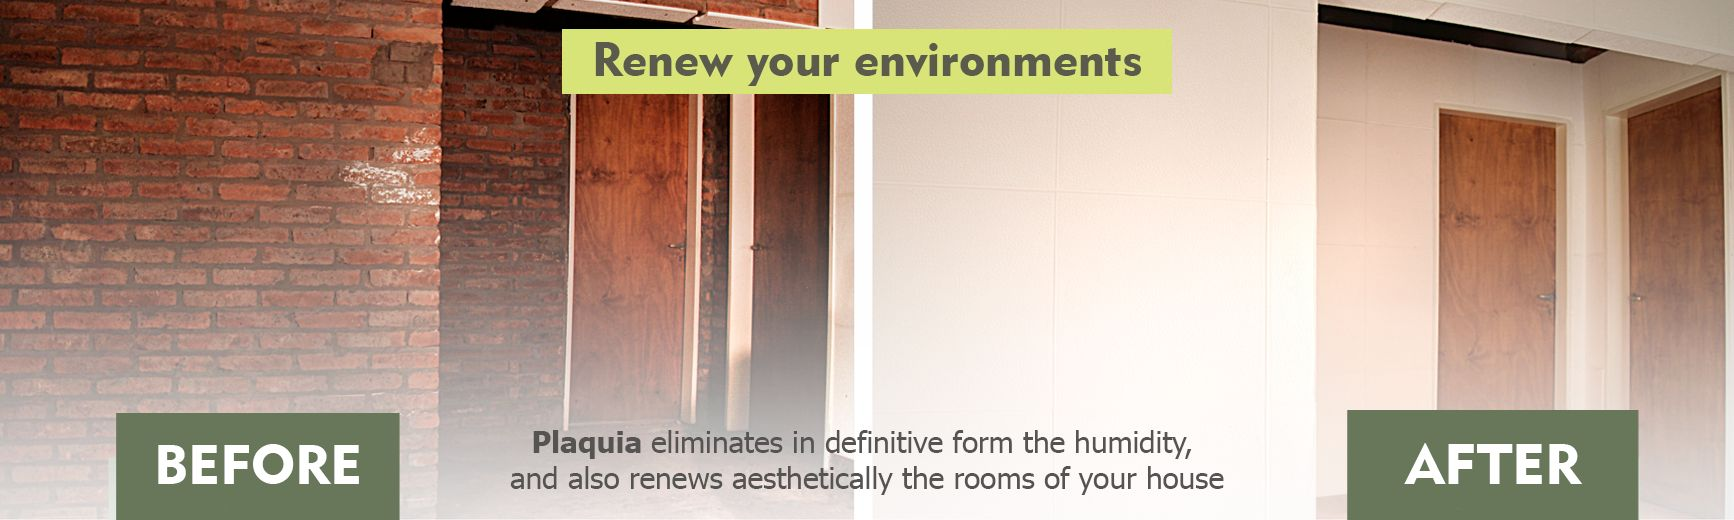
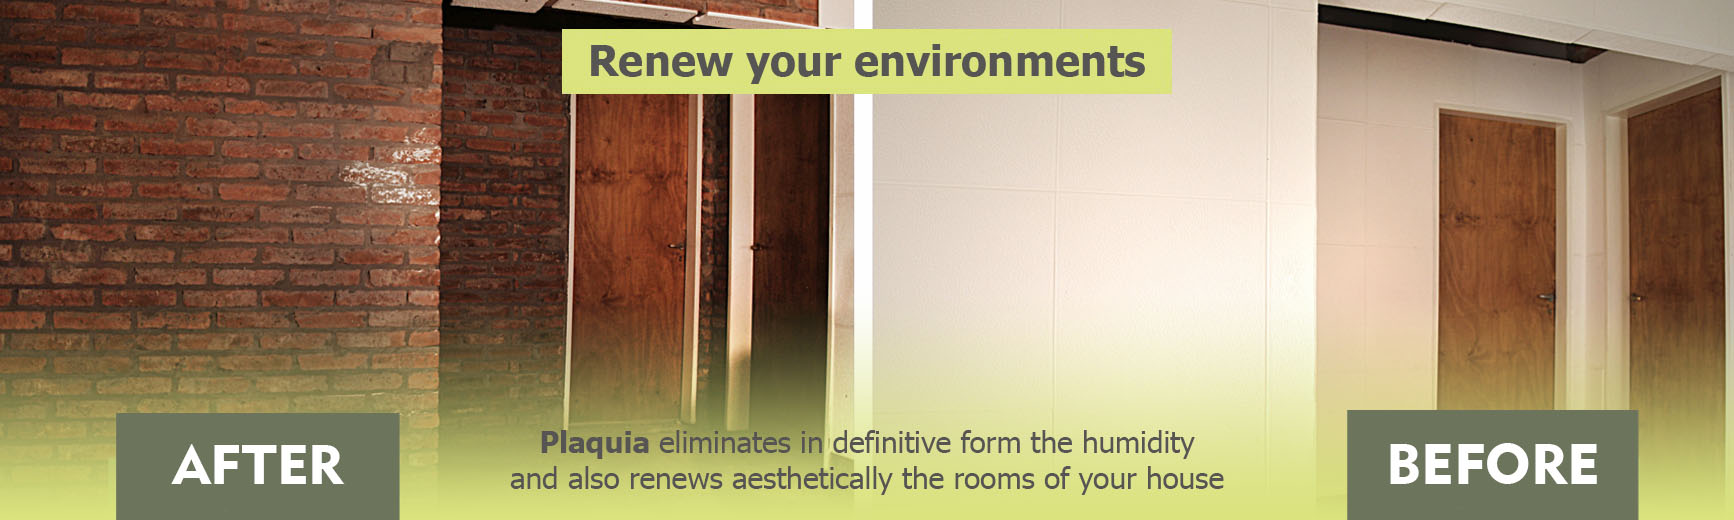
Replacement of images in results

diff --git a/frontend/src/components/Distribuidores/DistribuidoresSinBack.js b/frontend/src/components/Distribuidores/DistribuidoresSinBack.js
@@ -54,6 +54,11 @@ class Distribuidores extends React.Component {
             </thead>
             <tbody>
               <tr>
+                <td>Algarrobo</td>
+                <td>Av. 25 de Mayo 214</td>
+                <td>02927-491289</td>
+              </tr>
+              <tr>
                 <td>Benavidez</td>
                 <td>Av. Benavidez 3614</td>
                 <td>011 5052-6365</td>
@@ -69,6 +74,11 @@ class Distribuidores extends React.Component {
                 <td>011 4488-7733</td>
               </tr>
               <tr>
+                <td>Hilario Ascasubi</td>
+                <td>Ing. Urgoiti 475</td>
+                <td>02928 491133</td>
+              </tr>
+              <tr>
                 <td>Ituzaingo</td>
                 <td>Av. Presidente Perón 7042</td>
                 <td>011 6462-4582</td>
@@ -77,6 +87,11 @@ class Distribuidores extends React.Component {
                 <td>Médanos</td>
                 <td>Anchorena 123</td>
                 <td>291 5087-317</td>
+              </tr>
+              <tr>
+                <td>Patagones</td>
+                <td>Ntra. Sra. Del Carmen 218</td>
+                <td>02928-492425</td>
               </tr>
             </tbody>
           </Table>
@@ -93,14 +108,14 @@ class Distribuidores extends React.Component {
             </thead>
             <tbody>
               <tr>
-                <td>R. Saenz Peña</td>
-                <td>San Martin 38</td>
-                <td>0364 442-7345</td>
-              </tr>
-              <tr>
                 <td>Resistencia</td>
                 <td>Gob. Mansilla 77</td>
                 <td>0362 446-2582</td>
+              </tr>
+              <tr>
+                <td>Roque Saenz Peña</td>
+                <td>San Martin 38</td>
+                <td>0364 442-7345</td>
               </tr>
             </tbody>
           </Table>
@@ -159,6 +174,11 @@ class Distribuidores extends React.Component {
                 <td>Viscardi 345 - Parque Industrial</td>
                 <td>02302 430191</td>
               </tr>
+              <tr>
+                <td>La Adela</td>
+                <td>Ruta 22 Km 856</td>
+                <td> </td>
+              </tr>
             </tbody>
           </Table>
           <h4>
@@ -177,6 +197,25 @@ class Distribuidores extends React.Component {
                 <td>San Vicente</td>
                 <td>Ruta Nacional 14 Km 974</td>
                 <td>03755 460550</td>
+              </tr>
+            </tbody>
+          </Table>
+          <h4>
+            <li>Río Negro</li>
+          </h4>
+          <Table>
+            <thead>
+              <tr>
+                <th style={{ width: "30%" }}>{Localidad}</th>
+                <th style={{ width: "50%" }}>{Direccion}</th>
+                <th style={{ width: "20%" }}>{Telefono}</th>
+              </tr>
+            </thead>
+            <tbody>
+              <tr>
+                <td>Río Colorado</td>
+                <td>Urquiza 571</td>
+                <td>02931 432822</td>
               </tr>
             </tbody>
           </Table>

diff --git a/frontend/src/components/modelos/modelos.js b/frontend/src/components/modelos/modelos.js
@@ -6,6 +6,10 @@ import ModalImage from "react-modal-image";
 import Card from "react-bootstrap/Card";
 import CardDeck from "react-bootstrap/CardDeck";
 
+import smallJade from "../../img/Modelos/smallJade.jpg";
+import smallCuarzo from "../../img/Modelos/smallCuarzo.jpg";
+import smallOnice from "../../img/Modelos/smallOnice.jpg";
+
 import imgJade from "../../img/Modelos/PlacaJade.jpg";
 import imgCuarzo from "../../img/Modelos/PlacaCuarzo.jpg";
 import imgOnice from "../../img/Modelos/PlacaOnice.jpg";
@@ -42,15 +46,15 @@ class ModelosPlacas extends Component {
   render() {
     this.Iniciar();
     return (
-      <div>
+      <div id="DivModelos">
         <CardDeck>
-          <Card>
+          <Card id="TarjetaModelos">
             <Card.Header>
               <h3 id="nombrePlaca">Cuarzo</h3>
             </Card.Header>
             <ModalImage
               id="fotoPlaca"
-              small={imgCuarzo}
+              small={smallCuarzo}
               large={imgCuarzo}
               hideDownload="true"
               hideZoom="false"
@@ -60,13 +64,13 @@ class ModelosPlacas extends Component {
               <Card.Text>{TextoCuarzo}</Card.Text>
             </Card.Body>
           </Card>
-          <Card>
+          <Card id="TarjetaModelos">
             <Card.Header>
               <h3 id="nombrePlaca">Jade</h3>
             </Card.Header>
             <ModalImage
               id="fotoPlaca"
-              small={imgJade}
+              small={smallJade}
               large={imgJade}
               hideDownload="true"
               hideZoom="false"
@@ -76,13 +80,13 @@ class ModelosPlacas extends Component {
               <Card.Text>{TextoJade}</Card.Text>
             </Card.Body>
           </Card>
-          <Card>
+          <Card id="TarjetaModelos">
             <Card.Header>
               <h3 id="nombrePlaca">Onice</h3>
             </Card.Header>
             <ModalImage
               id="fotoPlaca"
-              small={imgOnice}
+              small={smallOnice}
               large={imgOnice}
               hideDownload="true"
               hideZoom="false"

diff --git a/frontend/src/components/resultados.js b/frontend/src/components/resultados.js
@@ -3,18 +3,18 @@ import React from "react";
 import Carousel from "react-bootstrap/Carousel";
 import Container from "react-bootstrap/Container";
 
-import Resultado1 from "../img/antesydespues/esp/Antesydespues1.jpg";
-import Resultado2 from "../img/antesydespues/esp/Antesydespues2.jpg";
+import Resultado1 from "../img/antesydespues/esp/Antesydespues5.jpg";
+import Resultado2 from "../img/antesydespues/esp/Antesydespues8.jpg";
 import Resultado3 from "../img/antesydespues/esp/Antesydespues3.jpg";
 import Resultado4 from "../img/antesydespues/esp/Antesydespues4.jpg";
 
-import Eng1 from "../img/antesydespues/eng/Antesydespues1.jpg";
-import Eng2 from "../img/antesydespues/eng/Antesydespues2.jpg";
+import Eng1 from "../img/antesydespues/eng/Antesydespues5.jpg";
+import Eng2 from "../img/antesydespues/eng/Antesydespues8.jpg";
 import Eng3 from "../img/antesydespues/eng/Antesydespues3.jpg";
 import Eng4 from "../img/antesydespues/eng/Antesydespues4.jpg";
 
-import Por1 from "../img/antesydespues/por/AntesyDespues1.jpg";
-import Por2 from "../img/antesydespues/por/AntesyDespues2.jpg";
+import Por1 from "../img/antesydespues/por/AntesyDespues5.jpg";
+import Por2 from "../img/antesydespues/por/AntesyDespues8.jpg";
 import Por3 from "../img/antesydespues/por/AntesyDespues3.jpg";
 import Por4 from "../img/antesydespues/por/AntesyDespues4.jpg";
 

diff --git a/frontend/src/components/modelos/modelos.css b/frontend/src/components/modelos/modelos.css
@@ -5,3 +5,13 @@
 #fotoPlaca {
   background-color: black;
 }
+
+#TarjetaModelos {
+  border-radius: 2%;
+  box-shadow: slategray;
+}
+
+#DivModelos {
+  margin-right: 10px;
+  margin-left: 10px;
+}
